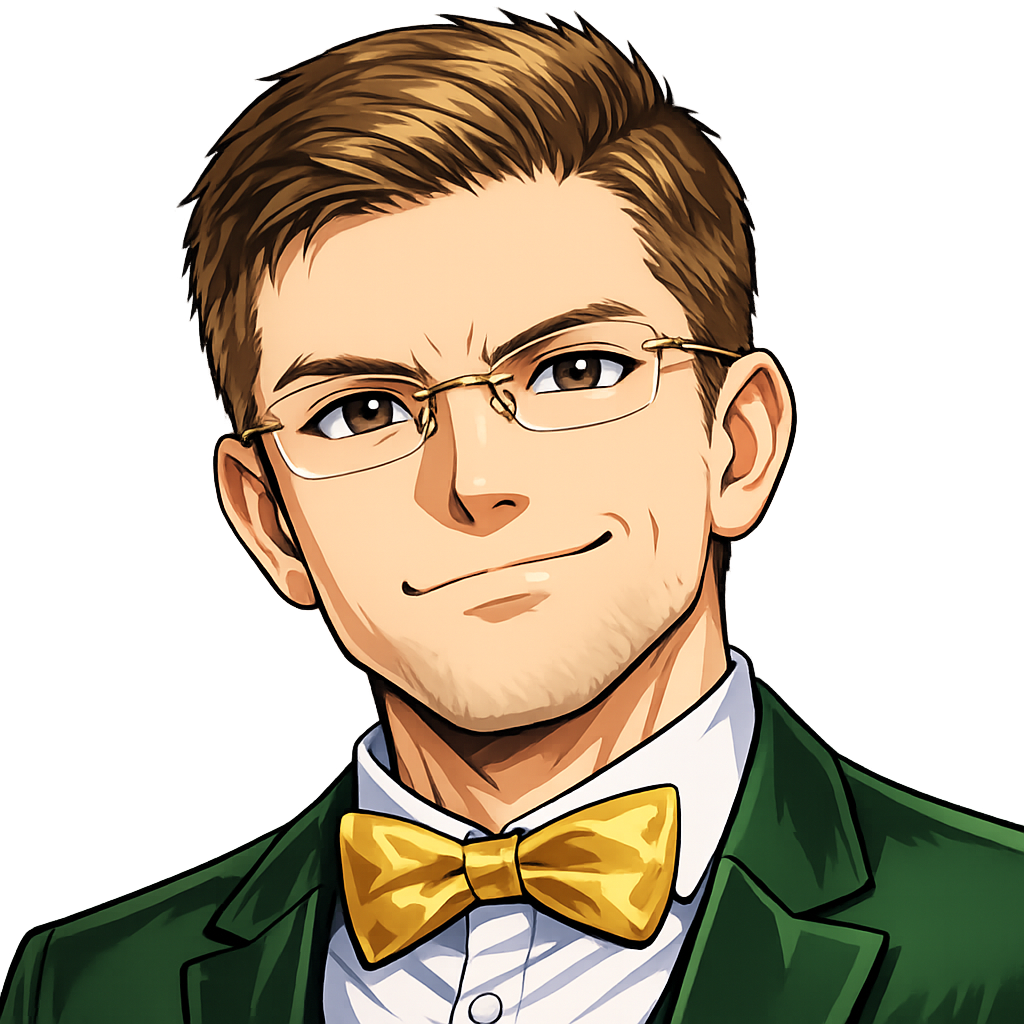
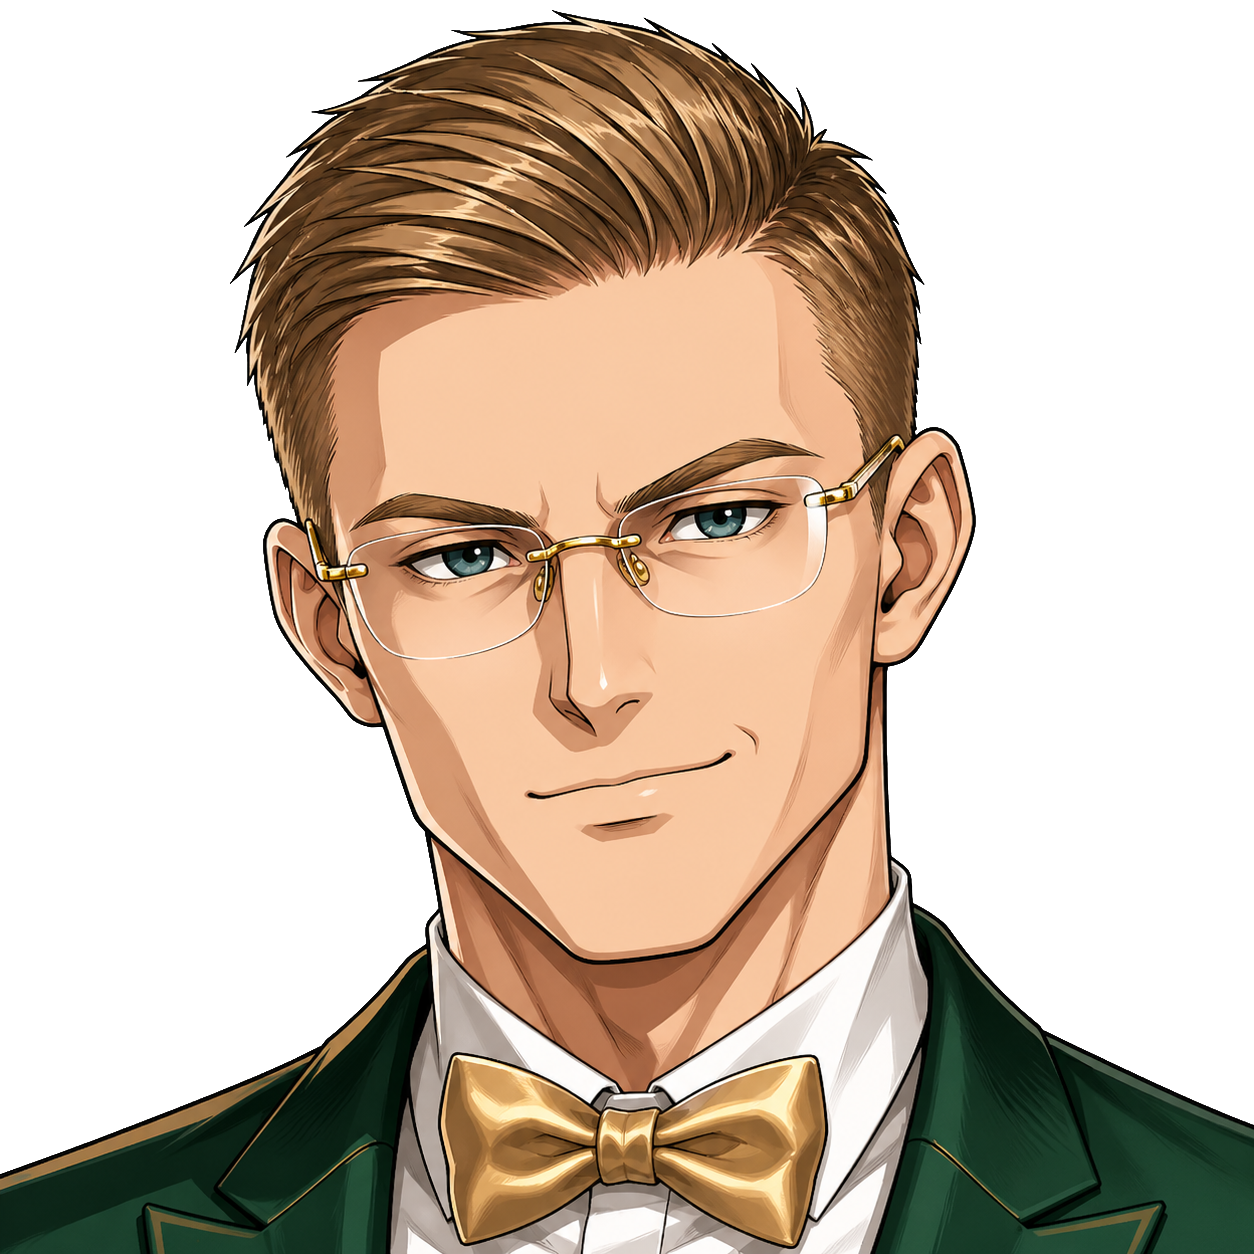
updates

diff --git a/src/App.jsx b/src/App.jsx
@@ -132,25 +132,25 @@ function AnalystBriefing({ onClose }) {
           <h2>Deine Rolle: Xeon Analyst</h2>
           <p>Analysten sind keine Zuschauer. Du hast eine eigene Rolle, eine eigene Wertung und einen eigenen Hauptpreis. Hier ist, was dich am Abend erwartet.</p>
           <div className="rule-list">
-            <div className="rule-card"><span className="rule-num">1</span><div><strong>Was zu gewinnen ist: Die Wildcard 2027</strong><br/>Der beste Xeon Analyst gewinnt die Wildcard für die nächste Edition. Das bedeutet: Du sitzt 2027 garantiert mit am Tisch – kein Los, kein Zufall.<br/><br/>Aber die Wildcard ist mehr als nur ein Platz. Sie ist das <strong>Privileg der freien Wahl</strong>. Du allein entscheidest, ob du 2027 als Spieler antrittst – oder als Analyst zurückkehrst, wenn dir die Rolle gefallen hat. Niemand sonst hat diese Wahl. Bei allen anderen entscheidet der Zufall. Bei dir entscheidest du.</div></div>
+            <div className="rule-card"><span className="rule-num">1</span><div><strong>Was zu gewinnen ist: Wildcard 2027</strong><br/>Der beste Xeon Analyst gewinnt die Wildcard für die nächste Edition. Das bedeutet: Du sitzt 2027 garantiert mit am Tisch – kein Los, kein Zufall.<br/><br/>Aber die Wildcard ist mehr als nur ein Platz. Sie ist das <strong>Privileg der freien Wahl</strong>. Du allein entscheidest, ob du 2027 als Spieler antrittst – oder als Analyst zurückkehrst, wenn dir die Rolle gefallen hat. Niemand sonst hat diese Wahl. Bei allen anderen entscheidet der Zufall. Bei dir entscheidest du.</div></div>
             <div className="rule-card"><span className="rule-num">2</span><div><strong>Das Tipp-Spiel</strong><br/>Vor jedem Spiel gibst du eine Prognose ab: Du bekommst Punkte für richtige Einschätzungen – über den gesamten Abend hinweg. Am Ende wird der beste Analyst gekürt. Er gewinnt die Wildcard.</div></div>
-            <div className="rule-card"><span className="rule-num">3</span><div><strong>Die Jury</strong><br/>Bei einem der Spiele werdet ihr zur Jury. Eure Bewertung ist verbindlich – sie geht direkt in die Spielerwertung ein. Kein Veto, keine Korrektur. Welches Spiel das ist, sagen wir am Abend.</div></div>
+            <div className="rule-card"><span className="rule-num">3</span><div><strong>Die Jury</strong><br/>Bei einem der Spiele werden Analysten zur Jury. Ihre Bewertung ist verbindlich – sie geht direkt in die Spielerwertung ein. Kein Veto, keine Korrektur. Welches Spiel das ist, sagen wir am Abend.</div></div>
             <div className="rule-card"><span className="rule-num">4</span><div><strong>Analyst Insight</strong><br/>Vor jedem Spiel hast du die Option, deinen Tipp, dein Bauchgefühl, deine These zu verkünden. Du musst nicht – aber wer etwas zu sagen hat, soll es sagen. Das hier ist auch deine Bühne.</div></div>
             <div className="rule-card"><span className="rule-num">5</span><div><strong>Xeon Moment of the Night</strong><br/>Halte die besten Momente des Abends mit der Handykamera fest – lustig, dramatisch, absurd. Du weißt, was gemeint ist. Am Ende des Abends wird das beste Foto gekürt: der Xeon Moment of the Night. Handy geladen mitbringen.</div></div>
           </div>
         </section>
 
         <section className="briefing-section briefing-section--highlight">
-          <h2>Das Analysten-Battle und der Lead Analyst</h2>
+          <h2>Analysten-Battle &amp; Lead Analyst</h2>
           <p>Bevor die Show startet, treten die Analysten in einem eigenen, kurzen Wettbewerb gegeneinander an: dem Analysten-Battle. Es entscheidet zwei Dinge.</p>
-          <p><strong>Erstens:</strong> Falls am Spieltag ein Platz frei wird, ist die Reihenfolge, wer ihn übernimmt, nicht zufällig. Sie wird im Battle gespielt.</p>
-          <p><strong>Zweitens:</strong> Den <strong>Lead Analyst</strong> des Abends. Wer das Battle gewinnt – sofern er nicht selbst auf einen Spielerplatz wechselt – ist Sprecher der Analysten. Bei Jury-Entscheidungen mit Patt-Stand entscheidet er.</p>
-          <p className="briefing-accent">Welches Spiel das Battle ist, erfährst du am Spieltag.</p>
+          <p><strong>Erstens:</strong> Falls am Spieltag ein Platz frei wird, ist die Reihenfolge, wer ihn übernimmt, nicht zufällig. Sie wird im Battle erspielt.</p>
+          <p><strong>Zweitens:</strong> Den <strong>Lead Analyst</strong> des Abends. Wer das Battle gewinnt – sofern er nicht selbst auf einen Spielerplatz wechselt – ist der Lead-Analyst. Bei Jury-Entscheidungen mit Patt-Stand entscheidet er.</p>
+          <p className="briefing-accent">Was das Battle ist, erfährst du am Spieltag.</p>
         </section>
 
         <section className="briefing-section">
           <h2>Wenn der Spielerplatz frei wird</h2>
-          <p>Falls ein Spieler kurzfristig absagt, am Spieltag verhindert ist – oder sich kurz vor Showbeginn doch nicht im Spielfeld sieht – übernimmt einer von euch den Platz. Die Reihenfolge dafür hat das Battle bestimmt.</p>
+          <p>Falls ein Spieler kurzfristig absagt, am Spieltag verhindert ist – oder sich kurz vor Showbeginn doch nicht im Spielfeld sieht – übernimmt einer der Analysten den Platz. Die Reihenfolge dafür hat das Battle bestimmt.</p>
           <p>Das ist nicht Plan B des Abends, sondern Teil des Plans A: Die Show funktioniert nur, wenn jemand mit voller Überzeugung einsteigt – ohne Anlauf, ohne Ausrede. Wer übernimmt, übernimmt mit allen Rechten und allen Chancen: Punkte ab dem ersten Spiel, Pokal in Reichweite, Hall of Fame in Reichweite.</p>
         </section>
 
@@ -163,7 +163,7 @@ function AnalystBriefing({ onClose }) {
           <h2>Ablauf des Abends</h2>
           <div className="timeline">
             <div className="timeline-item"><span className="timeline-dot" /><strong>Ankommen, Drinks, Essen</strong><span>Zeit zum Ankommen und Einstimmen</span></div>
-            <div className="timeline-item"><span className="timeline-dot timeline-dot--accent" /><strong>Das Analysten-Battle</strong><span>Kurzes Vorspiel unter euch – klärt Reihenfolge und Lead Analyst</span></div>
+            <div className="timeline-item"><span className="timeline-dot timeline-dot--accent" /><strong>Analysten-Battle</strong><span>Reihenfolge und Lead Analyst</span></div>
             <div className="timeline-item"><span className="timeline-dot timeline-dot--accent" /><strong>Game Show</strong><span>ca. 3 Stunden · 9 Spiele · eine Pause dazwischen</span></div>
             <div className="timeline-item"><span className="timeline-dot timeline-dot--accent" /><strong>Siegerehrung</strong><span>Der Moment der Wahrheit – für Spieler und Analysten</span></div>
             <div className="timeline-item"><span className="timeline-dot" /><strong>Hausfest</strong><span>Feiern, Drinks, den Abend Revue passieren lassen</span></div>
